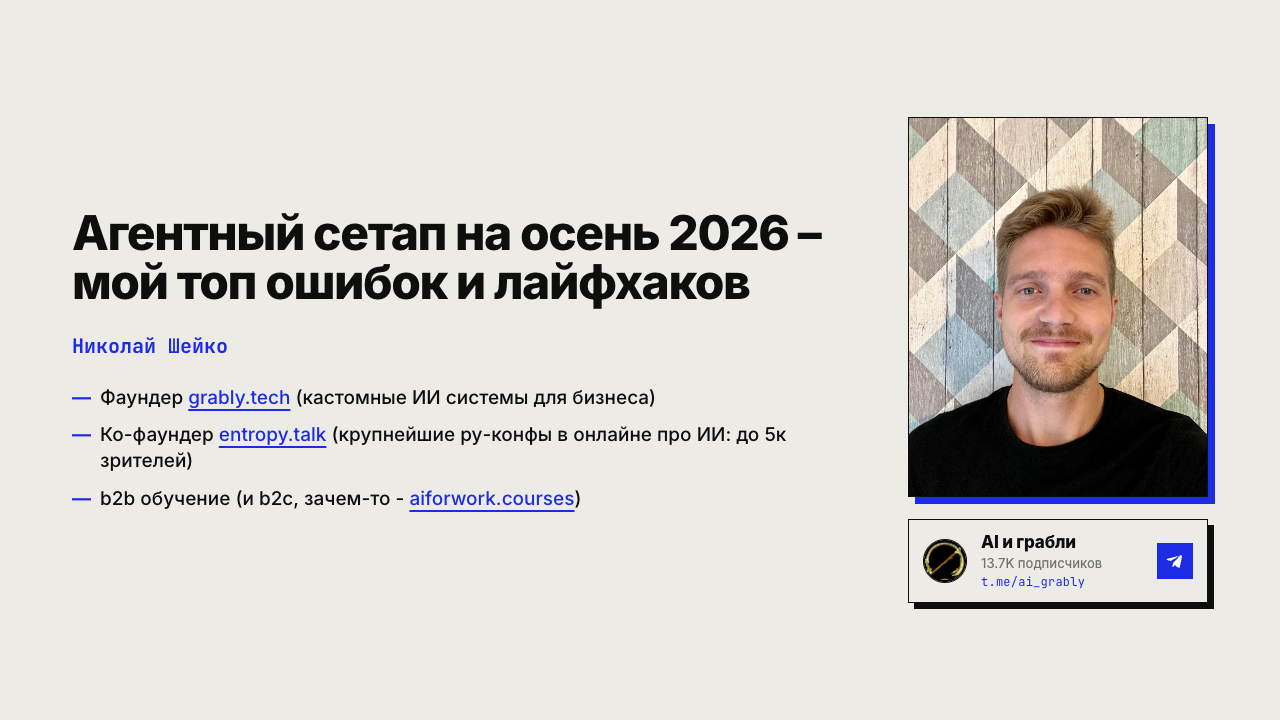
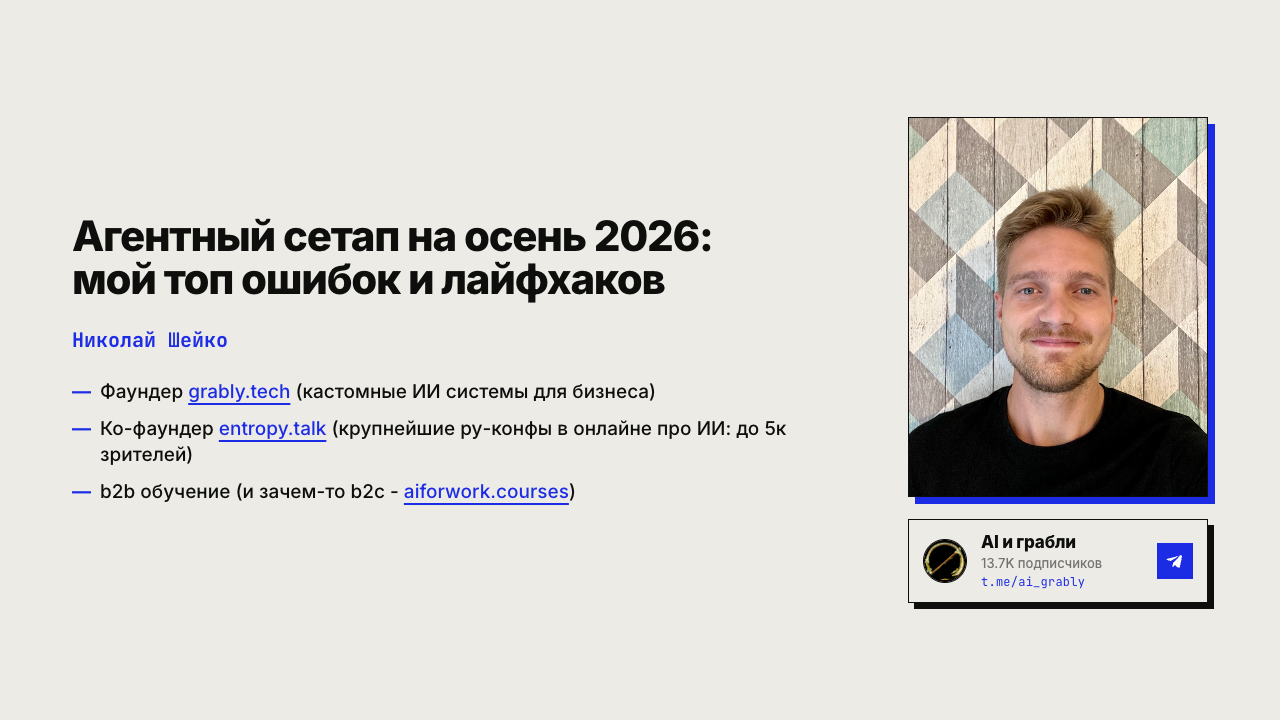
fix: tighten the agentic setup title slide wording
The title now breaks after "2026:" at a smaller size and the b2c aside reads naturally; titles, Open Graph and the catalog label use the same colon form, and the preview is regenerated so shares show the current slide.

Changed region(s): [[0.0625, 0.275, 0.6562, 0.4278], [0.0625, 0.5194, 0.625, 0.7028], [0.0625, 0.4583, 0.1875, 0.4889]]

diff --git a/agentic-setup-fall-2026/index.html b/agentic-setup-fall-2026/index.html
@@ -7,11 +7,11 @@
 <meta name="description" content="Доклад Николая Шейко: агент как исполнитель вместо ПО, 4 способа дать агенту руки, Codex vs Claude Code и bb, мой AGENTS.md и скиллы Review Loop, Foreman и Learn.">
 <meta property="og:type" content="website">
 <meta property="og:url" content="https://grably.tech/slides/agentic-setup-fall-2026/">
-<meta property="og:title" content="Агентный сетап на осень 2026 — мой топ ошибок и лайфхаков">
+<meta property="og:title" content="Агентный сетап на осень 2026: мой топ ошибок и лайфхаков">
 <meta property="og:description" content="Доклад Николая Шейко: агент как исполнитель вместо ПО, 4 способа дать агенту руки, Codex vs Claude Code и bb, мой AGENTS.md и скиллы Review Loop, Foreman и Learn.">
 <meta property="og:image" content="https://grably.tech/slides/agentic-setup-fall-2026/assets/preview.png">
 <meta name="twitter:card" content="summary_large_image">
-<title>Агентный сетап на осень 2026 — мой топ ошибок и лайфхаков</title>
+<title>Агентный сетап на осень 2026: мой топ ошибок и лайфхаков</title>
 <link href="./assets/fonts/fonts.css" rel="stylesheet">
 <style>
 :root{
@@ -84,7 +84,7 @@ ul.list li::before{content:"—";position:absolute;left:0;color:var(--blue);font
 
 /* ---------- speaker / title ---------- */
 .speaker{display:grid;grid-template-columns:1fr 300px;gap:56px;align-items:center}
-.speaker h1{font-size:48px;letter-spacing:-0.03em}
+.speaker h1{font-size:42px;letter-spacing:-0.03em}
 .speaker .name{margin-top:26px;font-family:'JetBrains Mono',monospace;font-size:20px;font-weight:600;color:var(--blue)}
 .speaker ul.list{margin-top:26px;gap:12px}
 .speaker ul.list li{font-size:19px}
@@ -500,12 +500,12 @@ ul.list li::before{content:"—";position:absolute;left:0;color:var(--blue);font
 <section class="slide s-title">
   <div class="speaker">
     <div>
-      <h1>Агентный сетап на осень 2026 – мой топ ошибок и лайфхаков</h1>
+      <h1>Агентный сетап на осень 2026:<br>мой топ ошибок и лайфхаков</h1>
       <p class="name">Николай Шейко</p>
       <ul class="list">
         <li>Фаундер <a class="lnk" href="https://grably.tech" target="_blank" rel="noopener noreferrer">grably.tech</a> (кастомные ИИ системы для бизнеса)</li>
         <li>Ко-фаундер <a class="lnk" href="https://entropy.talk" target="_blank" rel="noopener noreferrer">entropy.talk</a> (крупнейшие ру-конфы в онлайне про ИИ: до 5к зрителей)</li>
-        <li>b2b обучение (и b2c, зачем-то - <a class="lnk" href="https://aiforwork.courses" target="_blank" rel="noopener noreferrer">aiforwork.courses</a>)</li>
+        <li>b2b обучение (и зачем-то b2c - <a class="lnk" href="https://aiforwork.courses" target="_blank" rel="noopener noreferrer">aiforwork.courses</a>)</li>
       </ul>
     </div>
     <div class="speaker-side">

diff --git a/index.html b/index.html
@@ -542,7 +542,7 @@
             </div>
 
             <main class="grid" aria-label="Список презентаций">
-              <a class="card" href="./agentic-setup-fall-2026/" aria-label="Открыть: Агентный сетап на осень 2026 — мой топ ошибок и лайфхаков">
+              <a class="card" href="./agentic-setup-fall-2026/" aria-label="Открыть: Агентный сетап на осень 2026: мой топ ошибок и лайфхаков">
                 <div class="card-inner">
                   <div class="thumb" aria-hidden="true">
                     <img src="./agentic-setup-fall-2026/assets/preview.png" alt="" loading="lazy" class="thumb-contain" />

diff --git a/agentic-setup-fall-2026/index.md b/agentic-setup-fall-2026/index.md
@@ -1,10 +1,11 @@
-Агентный сетап на осень 2026 – мой топ ошибок и лайфхаков
+Агентный сетап на осень 2026:
+мой топ ошибок и лайфхаков
 
 Николай Шейко
 
 - Фаундер grably.tech (кастомные ИИ системы для бизнеса)
 - Ко-фаундер entropy.talk (крупнейшие ру-конфы в онлайне про ИИ: до 5к зрителей)
-- b2b обучение (и b2c, зачем-то - aiforwork.courses)
+- b2b обучение (и зачем-то b2c - aiforwork.courses)
 - t.me/ai_grably
 
 <!-- справа фотка и канал под ней с иконкой и именем как в slides.grably.tech/non-money-capital. ну и в целом стиль презы возьми оттуда, как и общую структуру (мы ее долго итерировали, там хорошо все работает именно для преезнтаций) -->
